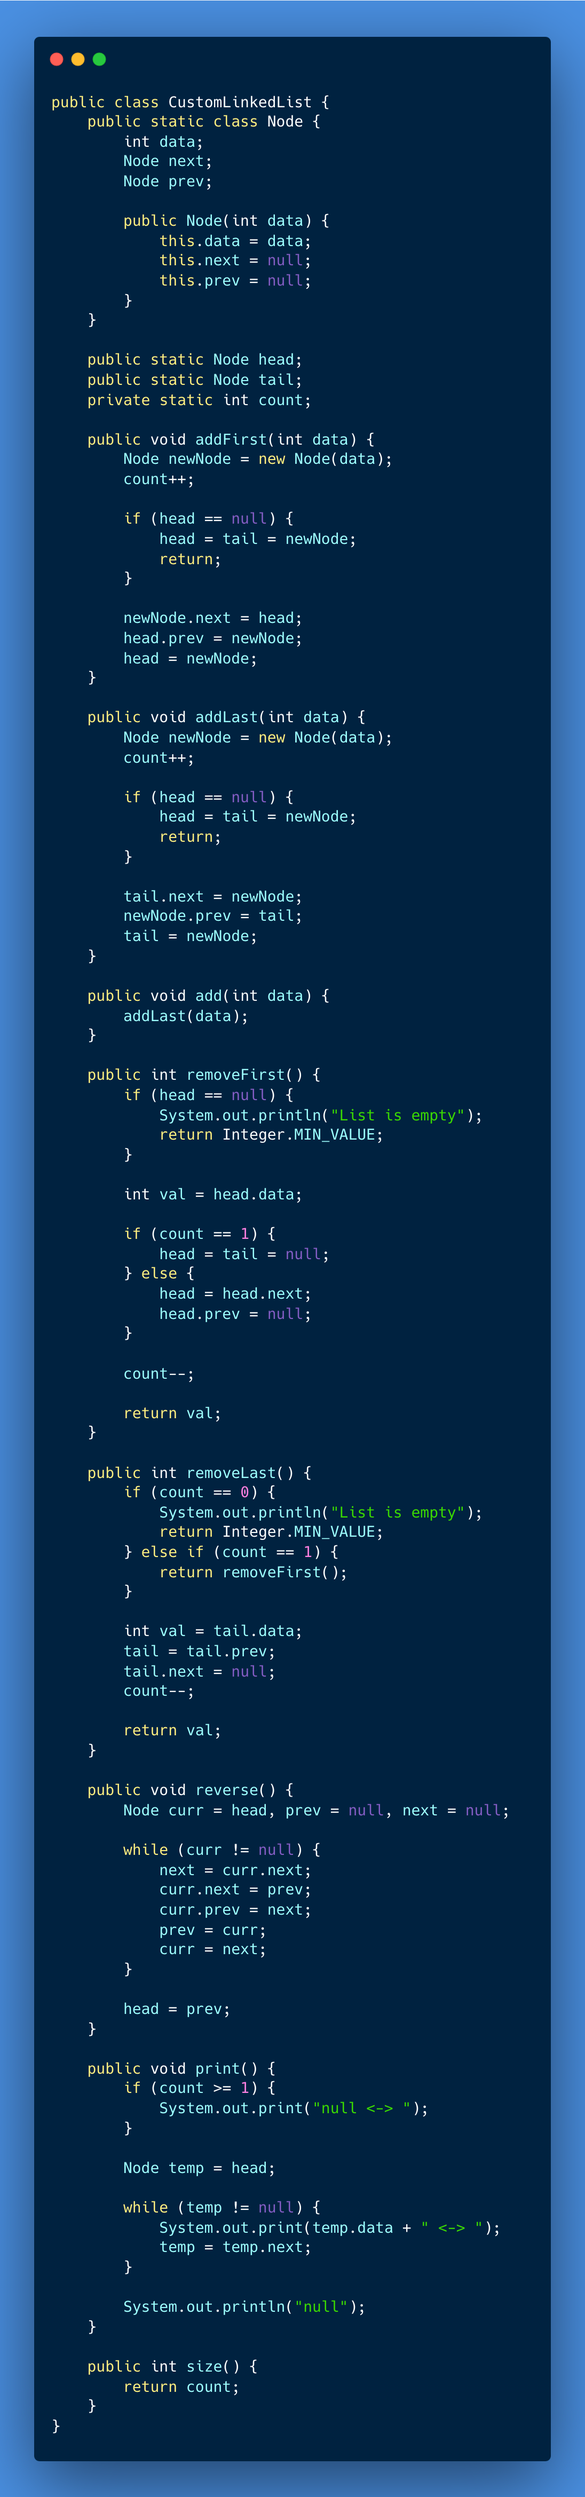
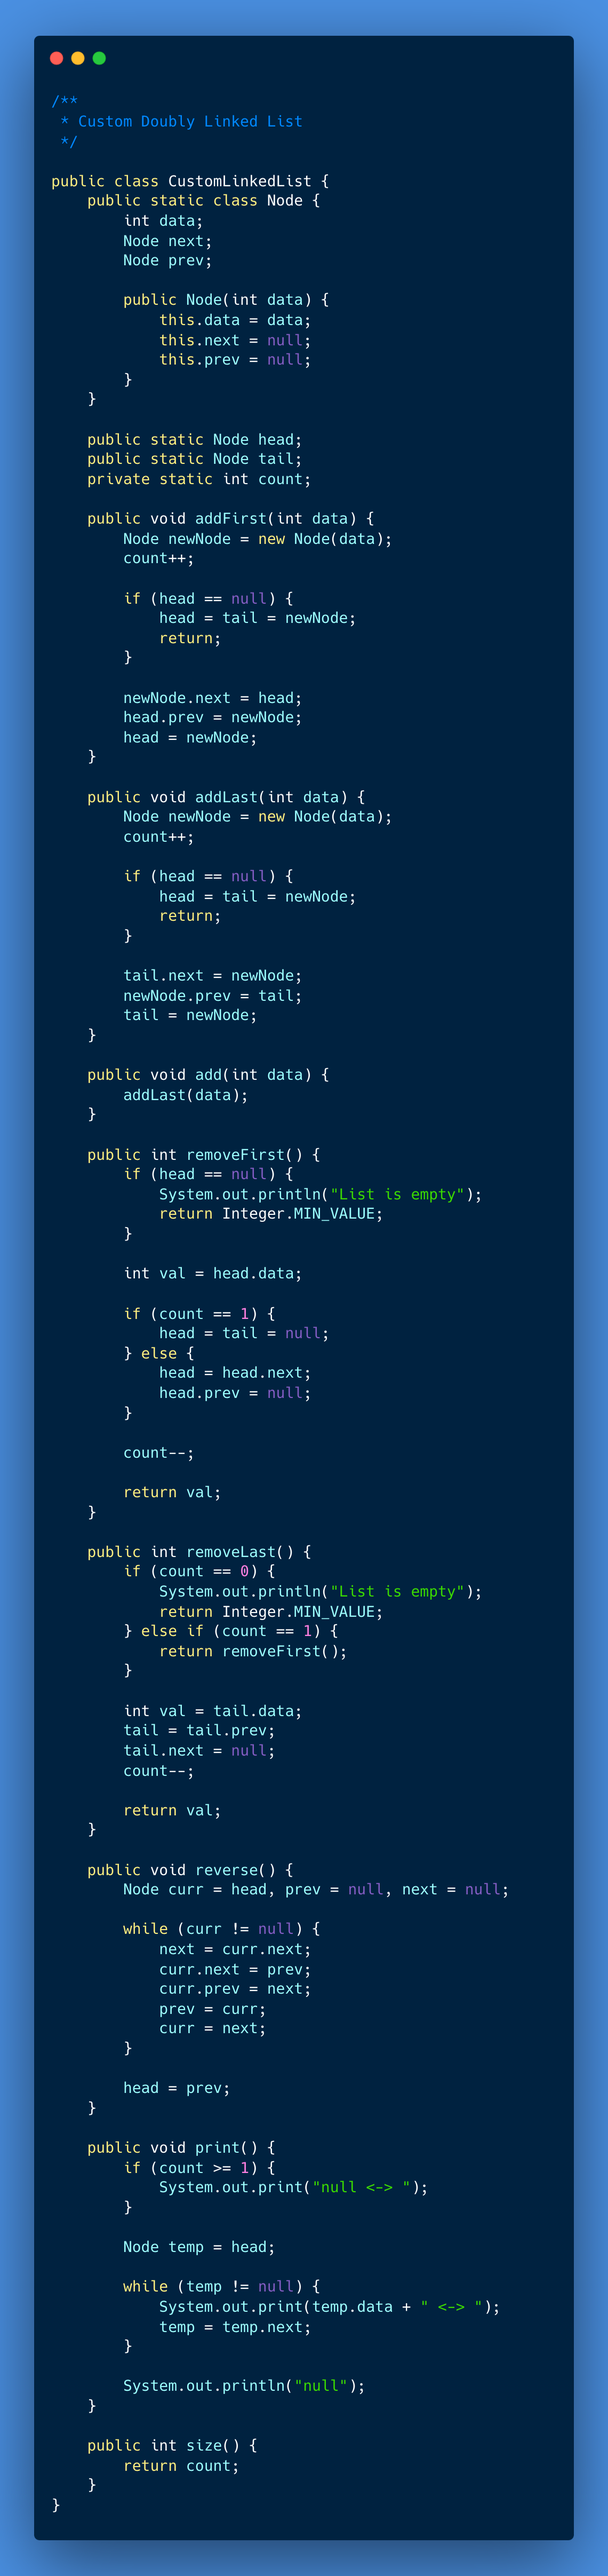
comment updates

diff --git a/000-playground/001-custom-singly-linked-list/CustomLinkedList.java b/000-playground/001-custom-singly-linked-list/CustomLinkedList.java
@@ -1,3 +1,7 @@
+/**
+ * Custom Singly Linked List
+ */
+
 public class CustomLinkedList {
     public static class Node {
         int data;

diff --git a/000-playground/002-custom-doubly-linked-list/CustomLinkedList.java b/000-playground/002-custom-doubly-linked-list/CustomLinkedList.java
@@ -1,3 +1,7 @@
+/**
+ * Custom Doubly Linked List
+ */
+
 public class CustomLinkedList {
     public static class Node {
         int data;
